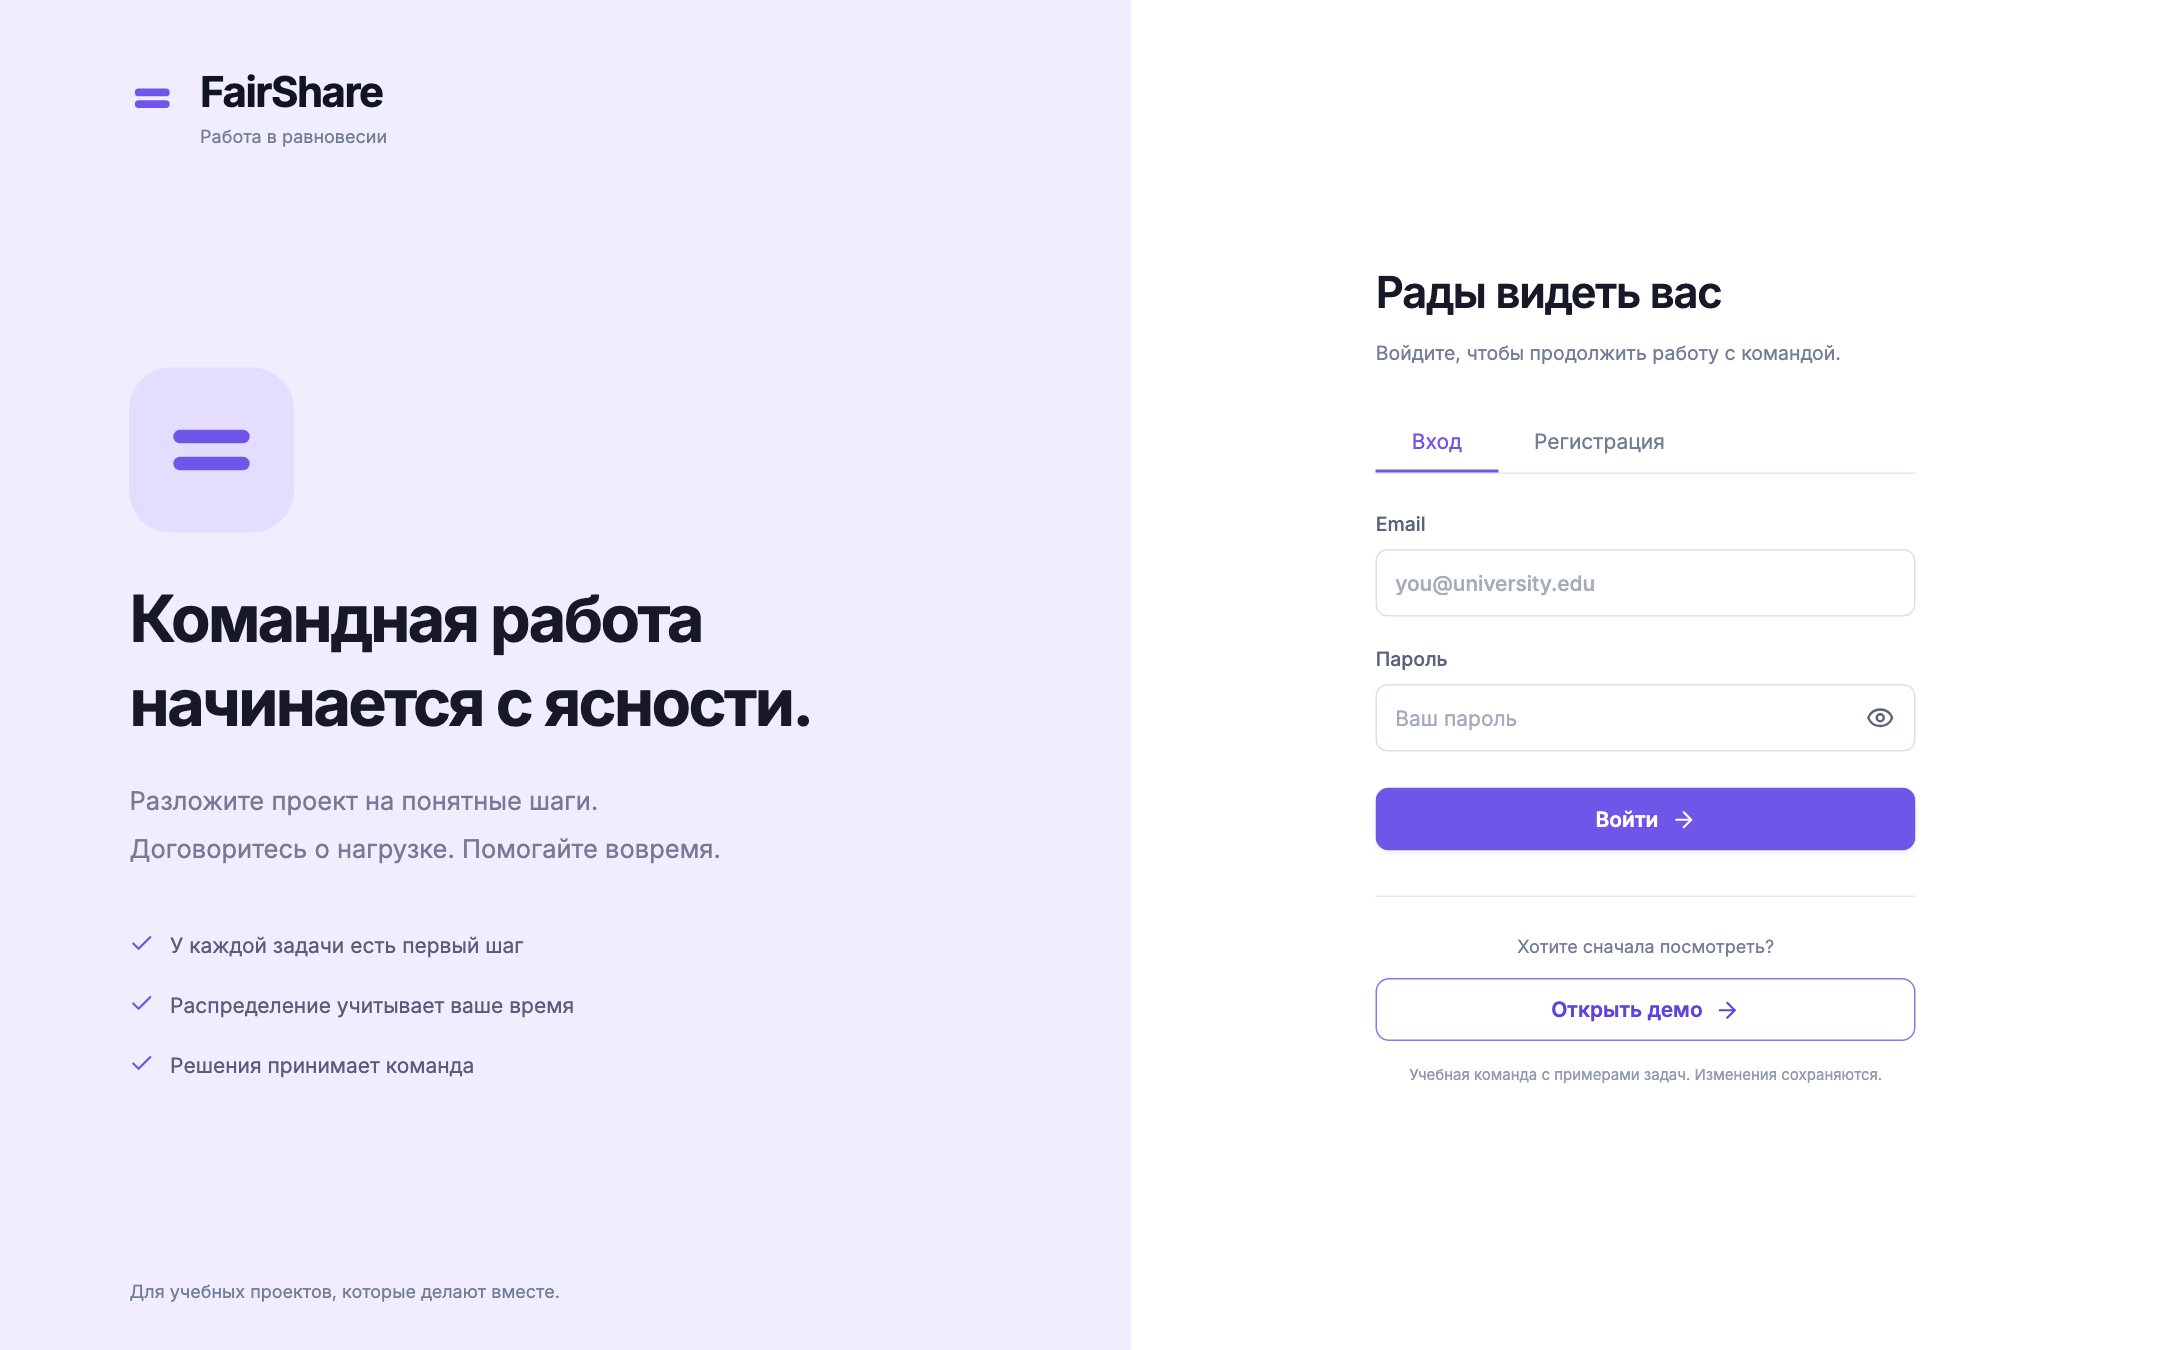
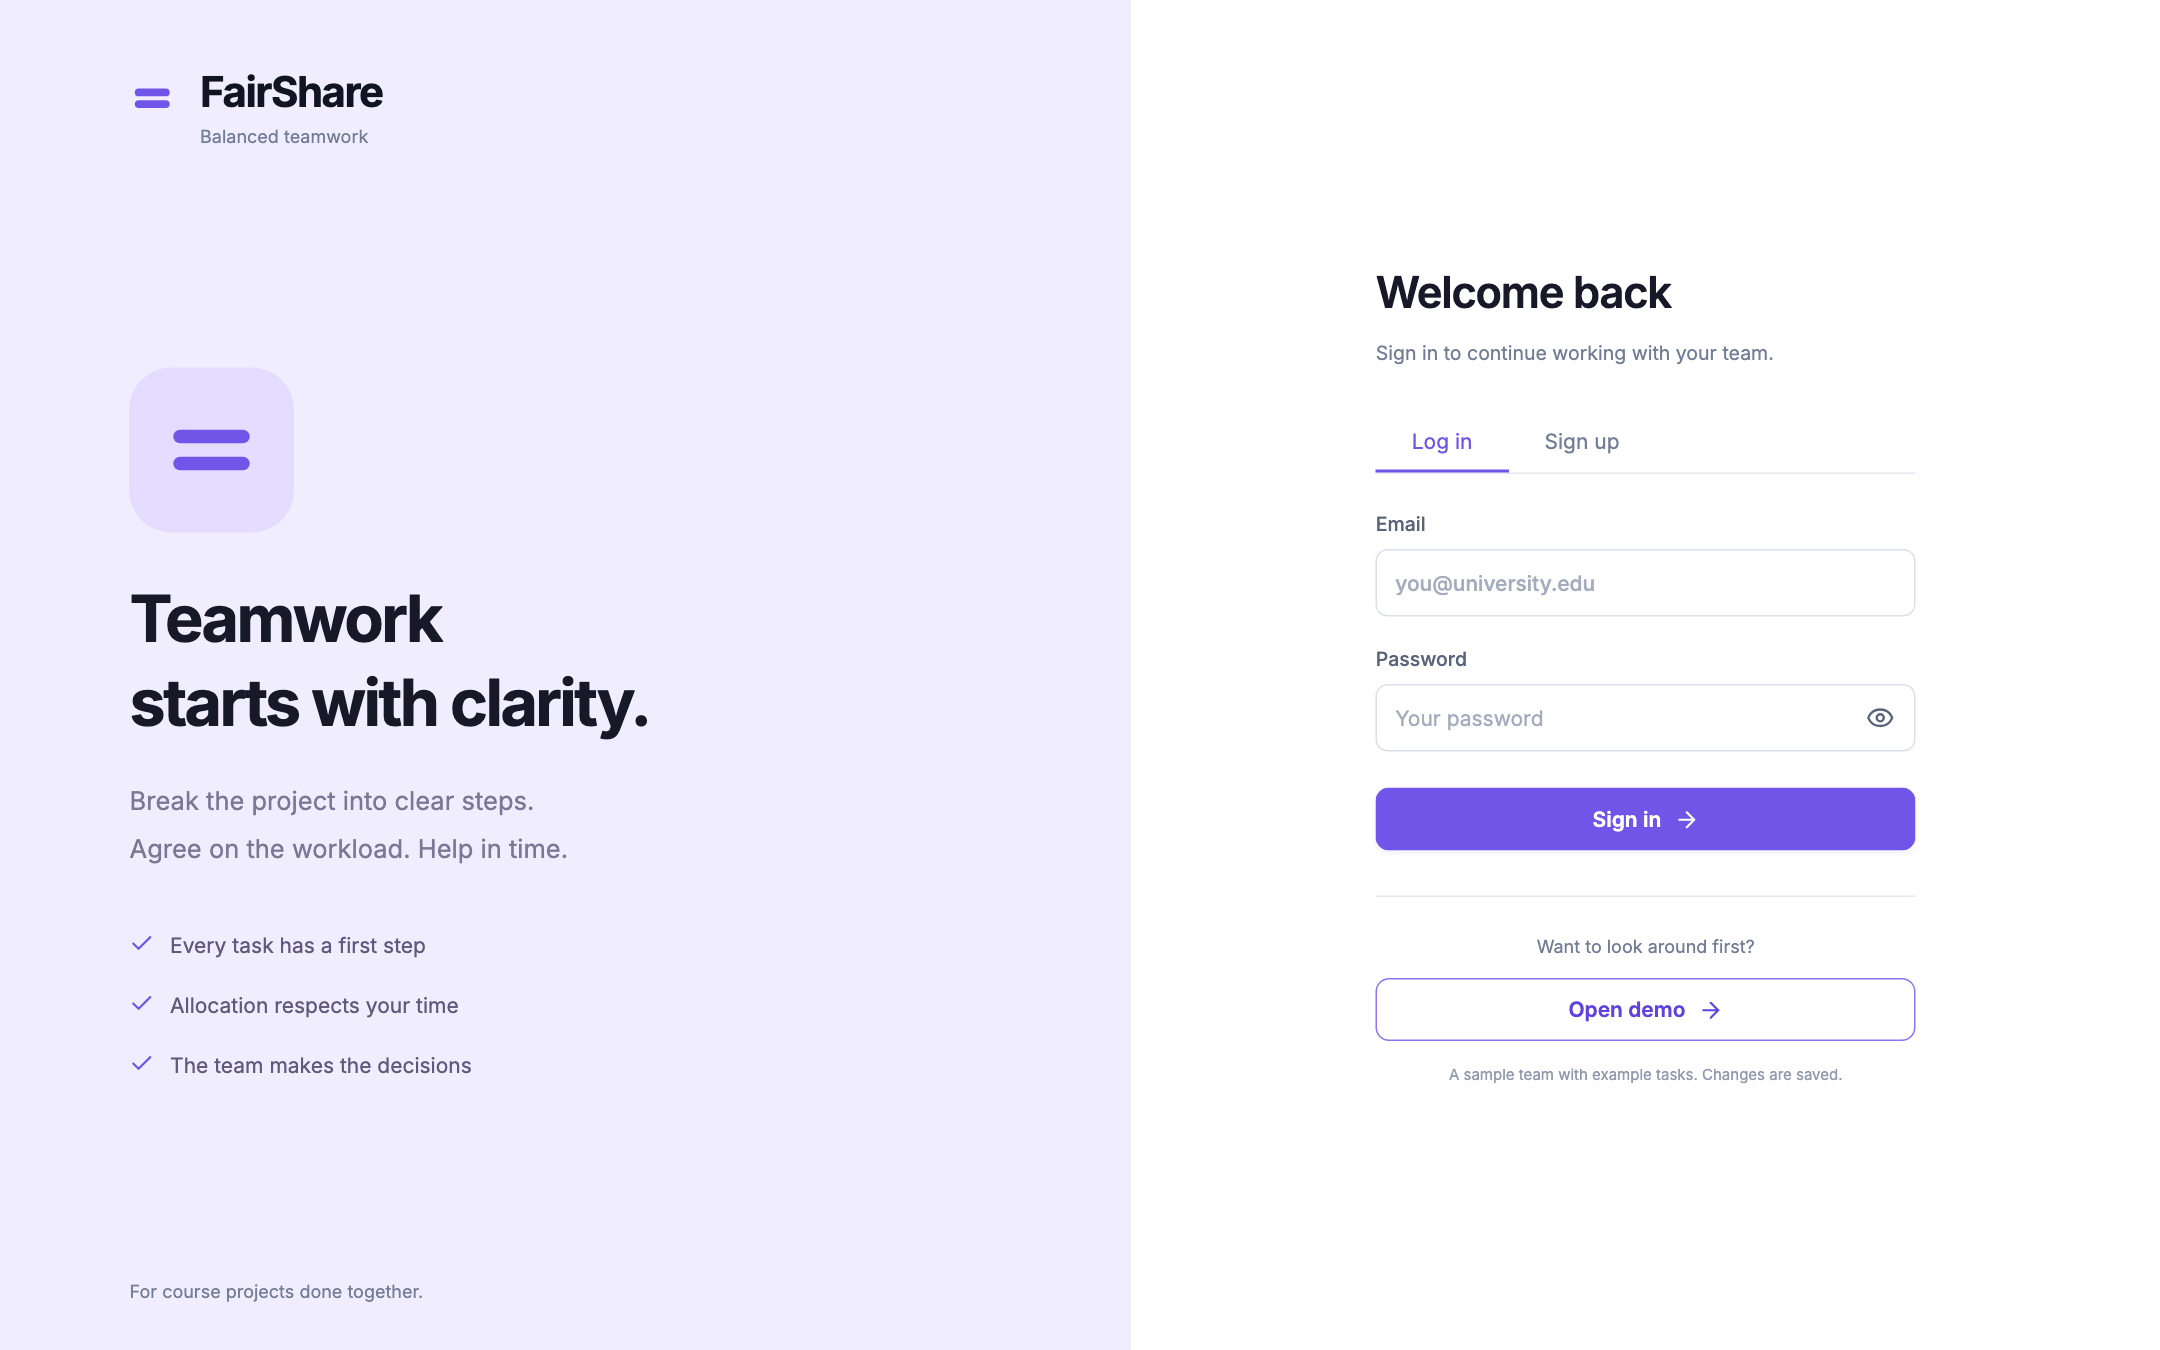
docs: record live checks for the English deployment

diff --git a/README.md b/README.md
@@ -2,7 +2,7 @@
 
 A working MVP for student teams, based on `M1_product_vision_filled.pdf`. The application interface is in English. Tasks, accounts, sessions, discussions, and votes are stored in PostgreSQL.
 
-Deployed on a VPS: **https://fairshare.15.235.192.28.sslip.io**. Demo mode is disabled on the server; register your own account. The live instance is a Docker container built from the `Dockerfile` (commit `5ade085`) behind an Nginx HTTPS proxy. See the [VPS guide](deploy/README.md) for the manual systemd setup, backups, and restore steps.
+Deployed on a VPS: **https://fairshare.15.235.192.28.sslip.io**. Demo mode is disabled on the server; register your own account. The live instance is a Docker container built from the `Dockerfile` (commit `2c2d601`) behind an Nginx HTTPS proxy. See the [VPS guide](deploy/README.md) for the manual systemd setup, backups, and restore steps.
 
 ## Getting started
 

diff --git a/AI_USAGE.md b/AI_USAGE.md
@@ -19,4 +19,4 @@ Team FairShare (ISE4133, Fall 2026): Yerassyl Murat, Tursunbekova Suusar, Kamchi
 
 ## Verification record
 
-On 24 October 2026: `npm run typecheck` passed, `npm test` 16/16 passed, `npx playwright test` 6/6 passed, `npm run build` succeeded. Logs are in `submission/evidence/`. The live container on the VPS is built from commit `5ade085`.
+On 24 October 2026: `npm run typecheck` passed, `npm test` 16/16 passed, `npx playwright test` 6/6 passed, `npm run build` succeeded. Logs are in `submission/evidence/`. The live container on the VPS is built from commit `2c2d601`.
